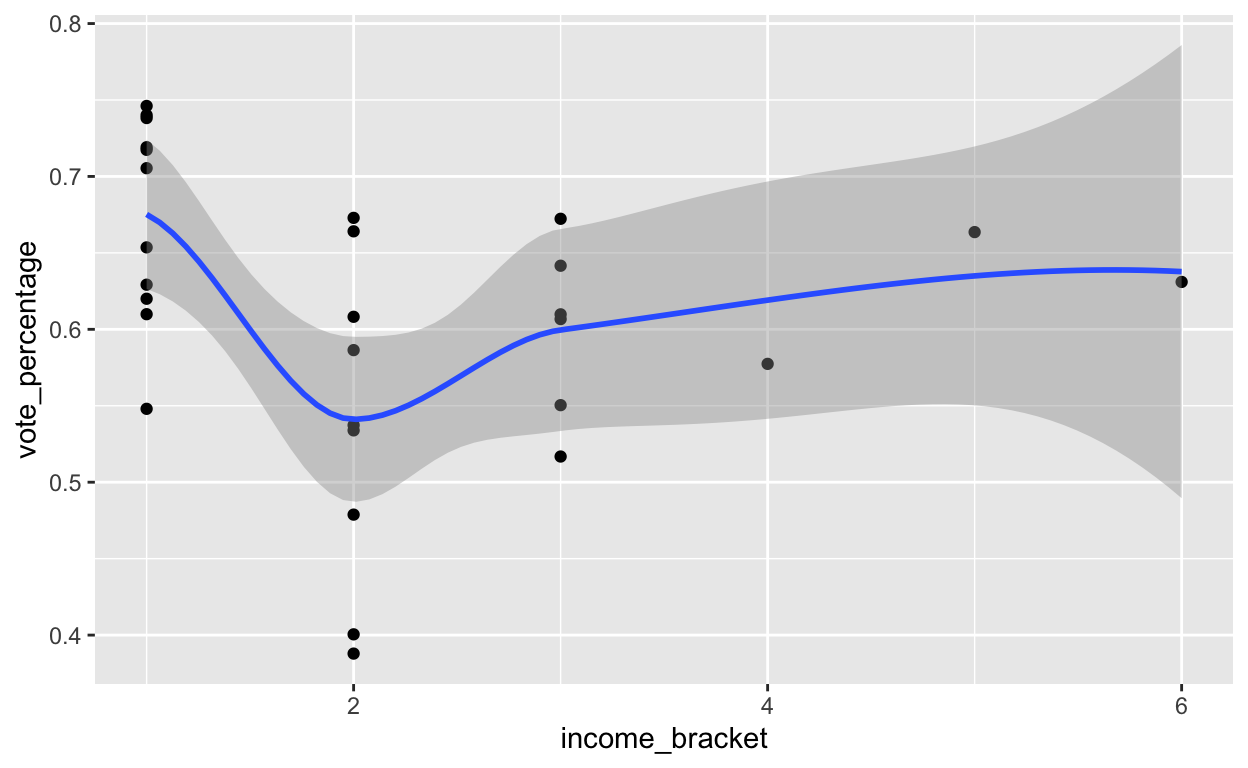
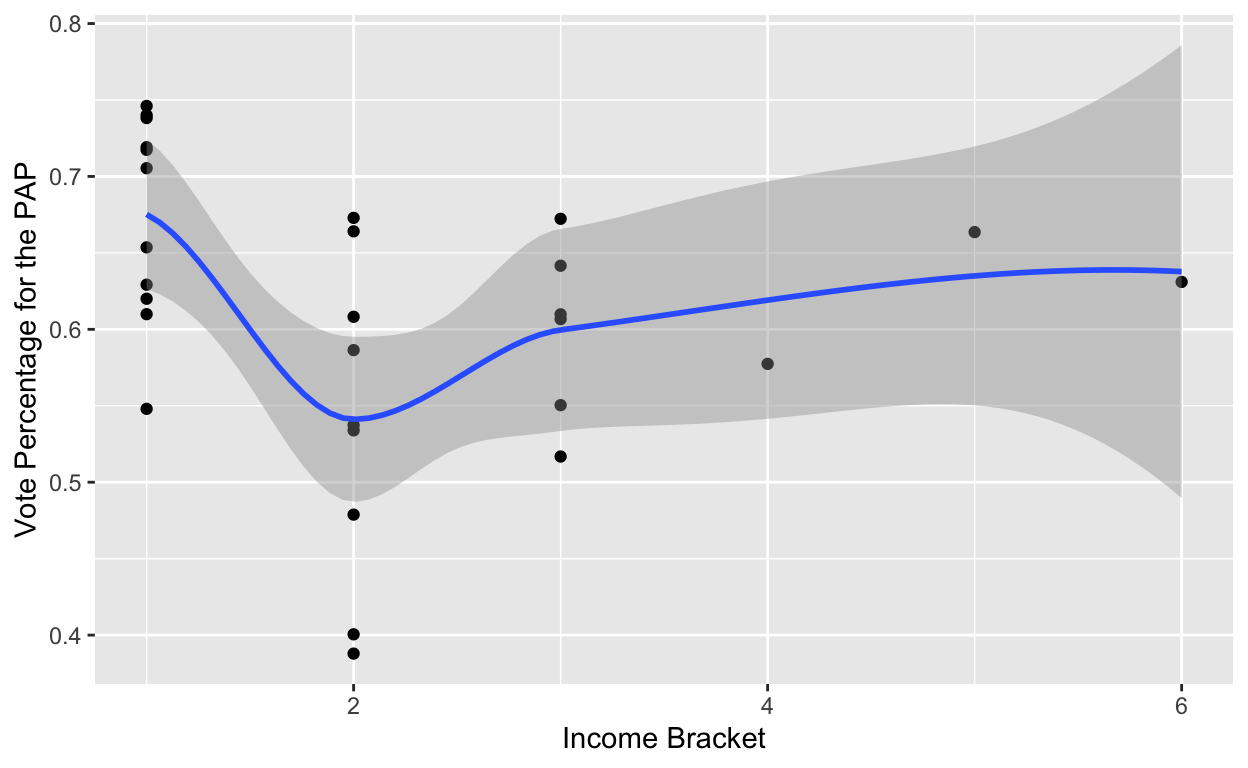
final commit!

Changed region(s): [[0.0, 0.2188, 0.0312, 0.6875], [0.4375, 0.9375, 0.625, 1.0]]

diff --git a/index.html b/index.html
@@ -90,7 +90,7 @@ code span.wa { color: #5e5e5e; font-style: italic; } /* Warning */
   <!--radix_placeholder_meta_tags-->
   <title>Gov 50 Final Project</title>
 
-  <meta property="description" itemprop="description" content="My final project"/>
+  <meta property="description" itemprop="description" content="Investigating voting patterns in Singapore&#39;s 2020 General Election"/>
 
 
   <meta name="article:author" content="Althea Lee"/>
@@ -98,19 +98,19 @@ code span.wa { color: #5e5e5e; font-style: italic; } /* Warning */
   <!--  https://developers.facebook.com/docs/sharing/webmasters#markup -->
   <meta property="og:title" content="Gov 50 Final Project"/>
   <meta property="og:type" content="article"/>
-  <meta property="og:description" content="My final project"/>
+  <meta property="og:description" content="Investigating voting patterns in Singapore&#39;s 2020 General Election"/>
   <meta property="og:locale" content="en_US"/>
 
   <!--  https://dev.twitter.com/cards/types/summary -->
   <meta property="twitter:card" content="summary"/>
   <meta property="twitter:title" content="Gov 50 Final Project"/>
-  <meta property="twitter:description" content="My final project"/>
+  <meta property="twitter:description" content="Investigating voting patterns in Singapore&#39;s 2020 General Election"/>
 
   <!--/radix_placeholder_meta_tags-->
   <!--radix_placeholder_rmarkdown_metadata-->
 
   <script type="text/json" id="radix-rmarkdown-metadata">
-  {"type":"list","attributes":{"names":{"type":"character","attributes":{},"value":["title","author","description","output"]}},"value":[{"type":"character","attributes":{},"value":["Gov 50 Final Project"]},{"type":"list","attributes":{},"value":[{"type":"list","attributes":{"names":{"type":"character","attributes":{},"value":["name"]}},"value":[{"type":"character","attributes":{},"value":["Althea Lee"]}]}]},{"type":"character","attributes":{},"value":["My final project"]},{"type":"list","attributes":{"names":{"type":"character","attributes":{},"value":["distill::distill_article"]}},"value":[{"type":"list","attributes":{"names":{"type":"character","attributes":{},"value":["self_contained"]}},"value":[{"type":"logical","attributes":{},"value":[false]}]}]}]}
+  {"type":"list","attributes":{"names":{"type":"character","attributes":{},"value":["title","author","description","output"]}},"value":[{"type":"character","attributes":{},"value":["Gov 50 Final Project"]},{"type":"list","attributes":{},"value":[{"type":"list","attributes":{"names":{"type":"character","attributes":{},"value":["name"]}},"value":[{"type":"character","attributes":{},"value":["Althea Lee"]}]}]},{"type":"character","attributes":{},"value":["Investigating voting patterns in Singapore's 2020 General Election "]},{"type":"list","attributes":{"names":{"type":"character","attributes":{},"value":["distill::distill_article"]}},"value":[{"type":"list","attributes":{"names":{"type":"character","attributes":{},"value":["self_contained"]}},"value":[{"type":"logical","attributes":{},"value":[false]}]}]}]}
   </script>
   <!--/radix_placeholder_rmarkdown_metadata-->
   
@@ -1495,7 +1495,7 @@ code span.wa { color: #5e5e5e; font-style: italic; } /* Warning */
 <!--radix_placeholder_front_matter-->
 
 <script id="distill-front-matter" type="text/json">
-{"title":"Gov 50 Final Project","description":"My final project","authors":[{"author":"Althea Lee","authorURL":"#","affiliation":"&nbsp;","affiliationURL":"#","orcidID":""}]}
+{"title":"Gov 50 Final Project","description":"Investigating voting patterns in Singapore's 2020 General Election","authors":[{"author":"Althea Lee","authorURL":"#","affiliation":"&nbsp;","affiliationURL":"#","orcidID":""}]}
 </script>
 
 <!--/radix_placeholder_front_matter-->
@@ -1508,7 +1508,7 @@ code span.wa { color: #5e5e5e; font-style: italic; } /* Warning */
 <h1>Gov 50 Final Project</h1>
 <!--radix_placeholder_categories-->
 <!--/radix_placeholder_categories-->
-<p>My final project</p>
+<p>Investigating voting patterns in Singapore’s 2020 General Election</p>
 </div>
 
 <div class="d-byline">
@@ -1821,7 +1821,9 @@ II. Alternative hypothesis: voter preference for the PAP, geographic distributio
 <div class="sourceCode">
 <pre class="sourceCode r"><code class="sourceCode r"><span><span class='fu'><a href='https://ggplot2.tidyverse.org/reference/ggplot.html'>ggplot</a></span><span class='op'>(</span><span class='va'>papwin</span>,<span class='fu'><a href='https://ggplot2.tidyverse.org/reference/aes.html'>aes</a></span><span class='op'>(</span>x <span class='op'>=</span> <span class='va'>income_bracket</span>, y <span class='op'>=</span> <span class='va'>vote_percentage</span><span class='op'>)</span><span class='op'>)</span> <span class='op'>+</span> </span>
 <span>  <span class='fu'><a href='https://ggplot2.tidyverse.org/reference/geom_point.html'>geom_point</a></span><span class='op'>(</span><span class='op'>)</span> <span class='op'>+</span> </span>
-<span>  <span class='fu'><a href='https://ggplot2.tidyverse.org/reference/geom_smooth.html'>geom_smooth</a></span><span class='op'>(</span><span class='op'>)</span></span></code></pre>
+<span>  <span class='fu'><a href='https://ggplot2.tidyverse.org/reference/geom_smooth.html'>geom_smooth</a></span><span class='op'>(</span><span class='op'>)</span> <span class='op'>+</span> </span>
+<span>    <span class='fu'><a href='https://ggplot2.tidyverse.org/reference/labs.html'>labs</a></span><span class='op'>(</span>x <span class='op'>=</span> <span class='st'>"Income Bracket"</span>, </span>
+<span>       y <span class='op'>=</span> <span class='st'>"Vote Percentage for the PAP"</span><span class='op'>)</span></span></code></pre>
 </div>
 <p><img src="index_files/figure-html5/unnamed-chunk-6-1.png" width="624" /></p>
 </div>
@@ -2258,11 +2260,22 @@ R2 Adj.
 </table>
 </div>
 <p>To determine whether income bracket is statistically significant, I controlled for confounding variables using a multiple regression test and visualizing it using the modelsummary function. The second x variable in this test is population per constituency.</p>
-<p>As seen in the table generated, the coefficient for income bracket is -0.021 and the coefficient for population per constituency is -9 x 10-8. Thus, when all other factors are held constant, there is a 2.1% decrease in vote percentage for the PAP when income bracket increases by one unit and there is a close to zero effect (but still decrease) in vote percentage for the PAP when population per constituency increases.</p>
+<p>As seen in the table generated, the coefficient for income bracket is -0.021 and the coefficient for population per constituency is -9 x 10-8. Thus, when all other factors are held constant, there is a 2.1% decrease in vote percentage for the PAP when income bracket increases by one unit and there is a close to zero effect (but still decrease) in vote percentage for the PAP when population per constituency increases by 1 individual.</p>
 <p>Based on these values, it can be inferred that the relationship between income bracket and vote percentage for the PAP is relatively negative (but from our visualizations we understand that it is a non-linear trend, where the relationship is positive for low income and high-income brackets, but a negative relationship exists for middle-income brackets). Additionally, there is close to no relationship between population per constituency and vote percentage for the PAP, though the value is negative. However, these values are not statistically significant when run through the stars argument.</p>
-<p>Based on the stars argument, there is a true statistical significance for the intercept where p is less than 0.001. Thus, when all the explanatory variables (income bracket and population per constituency) is zero, the mean vote percentage is 0.625. This suggests that there is a 62.5% vote percentage for the PAP regardless of a voter’s income bracket and population per constituency where they reside in. This suggests that there may be other factors affecting an individual’s decision to vote for the PAP – perhaps factors such as ethnic background, religion, or family.</p>
+<p>Further, statistical significance exists for the intercept where p is less than 0.001. Thus, when all the explanatory variables (income bracket and population per constituency) is zero, the mean vote percentage is 0.625. This suggests that there is a 62.5% vote percentage for the PAP regardless of a voter’s income bracket and population per constituency where they reside in. This suggests that there may be other factors affecting an individual’s decision to vote for the PAP – perhaps factors such as ethnic background, religion, or family.</p>
 <h2 id="conclusion">CONCLUSION</h2>
 <p>Because this test is not a randomized test, the relationship identified between income bracket, geographical distribution, and population per constituency is not causal. Furthermore, the stars test under the multiple regression calculation shows that there is no statistical significance between income bracket and population per constituency of an individual, thus accepting the null hypothesis that no relationship exists. Despite this, there seems to be a non-linear relationship between income bracket and vote percentage for the PAP. The inverted U-shaped visualization helps us understand that middle-income individuals are the least likely to vote for the PAP, whereas the lowest and highest income groups are more, and equally, likely to vote for the PAP. The map also indicates that the borders of Singapore have a lower vote percentage for the PAP and Central Singapore remains where most of the PAP vote is concentrated. This can be linked to the income groups residing in those areas (since Central Singapore has the highest income brackets and East Coast and West Coast have middle income bracket groups). This indicates potential for the alternative hypothesis to be accepted if the study is improved. Identifying a causal relationship through this test is also difficult to ascertain since there are only 10 observations. Ultimately, this project is limited by the non-randomized factors such as gross monthly income from work. Ideally, this project would be run in a setting where income and geographic distribution is randomized, perhaps through randomly distributing income or through distributing individuals to random constituencies across Singapore. More realistically, a stratified or permutation randomization test may be conducted where individuals are randomly assigned to different groups and an observational study is conducted. This study could also increase the time period observed to all the years of the general elections, perhaps strengthening the negative relationship trend observed between middle-income groups and vote percentage for the PAP. However, gerrymandering and the redrawing of constituency boundaries poses further difficulties to this method. Therefore, another improvement could be including more variables in the multiple regression test such as ethnic background, literacy rates, or hours in community service involvement.</p>
+<h2 id="data-sources">DATA SOURCES</h2>
+<p>[a] <a href="https://tablebuilder.singstat.gov.sg/table/CT/17571" class="uri">https://tablebuilder.singstat.gov.sg/table/CT/17571</a></p>
+<p>[b] <a href="https://data.gov.sg/dataset/parliamentary-general-election-results" class="uri">https://data.gov.sg/dataset/parliamentary-general-election-results</a></p>
+<p>[c] <a href="https://earthworks.stanford.edu/catalog/stanford-pg798kr1205" class="uri">https://earthworks.stanford.edu/catalog/stanford-pg798kr1205</a></p>
+<p>[d] <a href="https://www.citypopulation.de/en/singapore/cities/" class="uri">https://www.citypopulation.de/en/singapore/cities/</a></p>
+<h2 id="sources">SOURCES</h2>
+<p>[1] Beech, Hannah. “In Singapore, an Orderly Election and a (Somewhat) Surprising Result.” The New York Times, 10 July 2020, <a href="https://www.nytimes.com/2020/07/10/world/asia/singapore-election-results.html" class="uri">https://www.nytimes.com/2020/07/10/world/asia/singapore-election-results.html</a>.</p>
+<p>[2] Mohan, Matthew, and Rachel Phua. “Ge2020: PAP Wins with 61.24% of Vote; WP Claims Two Grcs Including New Sengkang GRC.” Channel News Asia, 11 July 2020, <a href="https://www.channelnewsasia.com/singapore/ge2020-general-election-final-result-pap-wp-952471" class="uri">https://www.channelnewsasia.com/singapore/ge2020-general-election-final-result-pap-wp-952471</a>.</p>
+<p>[3] “Singapore: Freedom in the World 2022 Country Report.” Freedom House, 2022, <a href="https://freedomhouse.org/country/singapore/freedom-world/2022" class="uri">https://freedomhouse.org/country/singapore/freedom-world/2022</a>.</p>
+<p>[4] “Singapore’s Ruling Party Wins Easily-but Its Vote Falls Sharply.” The Economist, The Economist Newspaper, 10 July 2020, <a href="https://www.economist.com/asia/2020/07/10/singapores-ruling-party-wins-easily-but-its-vote-falls-sharply" class="uri">https://www.economist.com/asia/2020/07/10/singapores-ruling-party-wins-easily-but-its-vote-falls-sharply</a>.</p>
+<p>[5] Tung, Ngiam Shih. “How Gerrymandering Creates Unfair Elections in Singapore.” New Naratif, 1 Mar. 2022, <a href="https://newnaratif.com/how-gerrymandering-creates-unfair-elections-in-singapore/" class="uri">https://newnaratif.com/how-gerrymandering-creates-unfair-elections-in-singapore/</a>.</p>
 <div class="sourceCode" id="cb6"><pre class="sourceCode r distill-force-highlighting-css"><code class="sourceCode r"></code></pre></div>
 <!--radix_placeholder_article_footer-->
 <!--/radix_placeholder_article_footer-->
